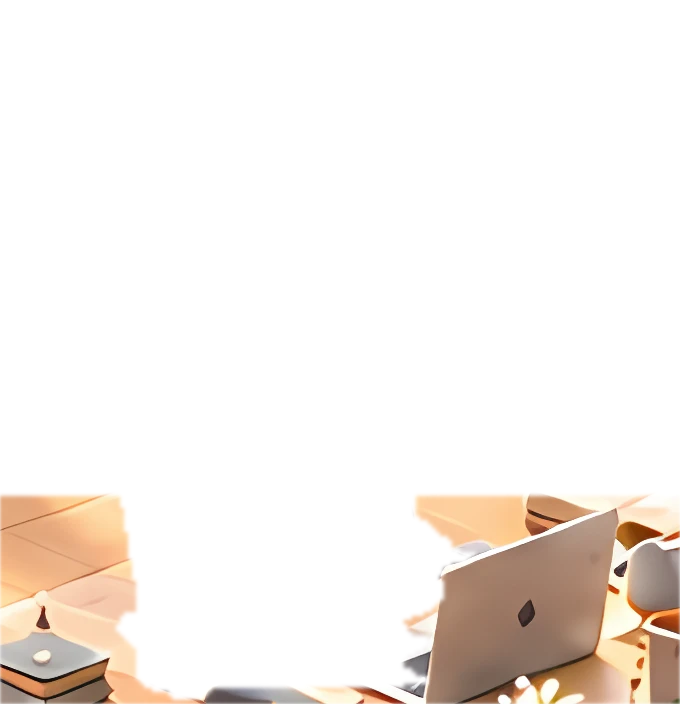
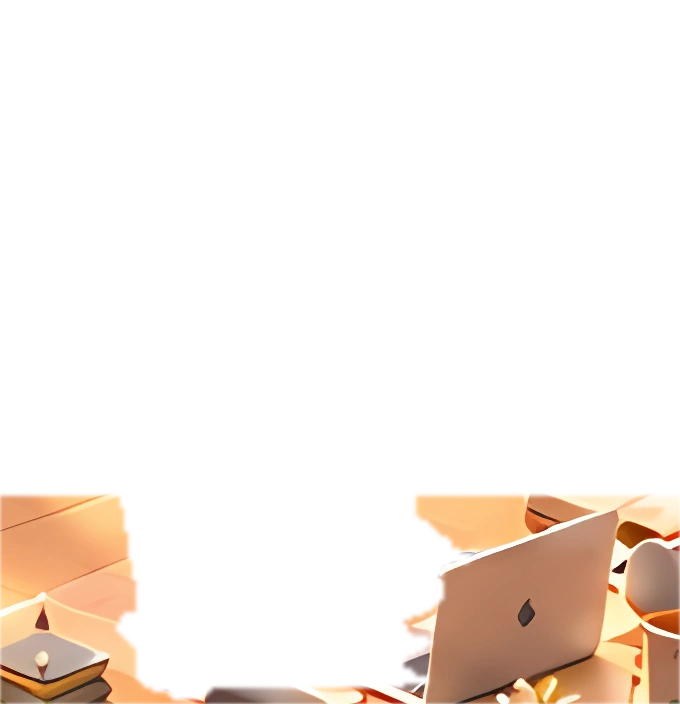
Add Christmas office day and night

diff --git a/office-view.js b/office-view.js
@@ -353,4 +353,42 @@
   };
 })();
 
+// ===== 크리스마스 낮/밤 전환 + 창밖 눈 (2026-11-02) =====
+// 밤: 18:00~06:59 (PC 시각). 배경·가림조각을 *_night.webp로, 캐릭터에 은은한 저녁 조명.
+window.OF_SEASON = window.OF_SEASON || { nightFrom: 18, nightTo: 7, snow: true };
+(function () {
+  if (window.__ofDayNight) return; window.__ofDayNight = true;
+  const css = document.createElement('style');
+  css.textContent = '.of-stage.of-night .lf-pose,.of-stage.of-night .lf-walk,.of-stage.of-night .of-sp,.of-stage.of-night .of-seat{filter:brightness(.92) sepia(.14) saturate(1.06)}'
+    + '.of-snow{position:absolute;inset:0;pointer-events:none;z-index:1;opacity:0;transition:opacity 4s}.of-snow.on{opacity:1}'
+    + '.of-snow i{position:absolute;top:-2%;width:.35%;aspect-ratio:1;border-radius:50%;background:#fff;box-shadow:0 0 4px rgba(255,255,255,.9);animation:ofsnow linear infinite}'
+    + '@keyframes ofsnow{from{transform:translate(0,0)}to{transform:translate(1.5vw,42vh)}}';
+  document.head.appendChild(css);
+  // 창문 영역(1672x941 기준 %): 왼쪽 큰 창, 오른쪽 위 창
+  const CLIP = 'polygon(0% 0%,29.6% 0%,29.6% 22%,6% 41%,0% 44%), polygon(56% 0%,100% 0%,100% 30%,88% 26%,66% 14%,56% 9%)';
+  const night = () => { const h = new Date().getHours(), s = window.OF_SEASON; return s.nightFrom > s.nightTo ? (h >= s.nightFrom || h < s.nightTo) : (h >= s.nightFrom && h < s.nightTo); };
+  const swap = (src, n) => n ? src.replace(/(office_empty|\/ov(?:_table|_monitor)?)(_night)?\.webp/, '$1_night.webp') : src.replace(/_night\.webp/, '.webp');
+  function apply() {
+    const n = night();
+    document.querySelectorAll('.of-stage').forEach(st => {
+      st.classList.toggle('of-night', n);
+      const bg = st.querySelector(':scope > img'); if (bg && /office_empty/.test(bg.src)) { const s2 = swap(bg.src, n); if (s2 !== bg.src) bg.src = s2; }
+      st.querySelectorAll('.lf-ov').forEach(o => { const s2 = swap(o.src, n); if (s2 !== o.src) o.src = s2; });
+      let sn = st.querySelector(':scope > .of-snow');
+      if (!sn && window.OF_SEASON.snow) {
+        sn = document.createElement('div'); sn.className = 'of-snow';
+        const parts = CLIP.split('), ').map((p, i) => p + (i ? '' : ')'));
+        for (const p of parts) { const box = document.createElement('div'); box.style.cssText = 'position:absolute;inset:0;clip-path:' + p;
+          for (let k = 0; k < 45; k++) { const f = document.createElement('i'); f.style.left = (Math.random() * 100) + '%'; f.style.animationDuration = (9 + Math.random() * 9) + 's'; f.style.animationDelay = (-Math.random() * 18) + 's'; f.style.opacity = (.5 + Math.random() * .5); f.style.width = (.2 + Math.random() * .3) + '%'; box.appendChild(f); }
+          sn.appendChild(box); }
+        st.appendChild(sn);
+      }
+      // 밤에만, 약 10분 주기로 4분 정도 눈
+      if (sn) sn.classList.toggle('on', n && (window.OF_SEASON.snowAlways || (Math.floor(Date.now() / 60000) % 10) < 4));
+    });
+  }
+  window.OF_DAYNIGHT = apply;
+  setInterval(apply, 30000);
+  new MutationObserver(() => { clearTimeout(window.__ofDnT); window.__ofDnT = setTimeout(apply, 200); }).observe(document.documentElement, { childList: true, subtree: true });
+})();
 

diff --git a/index.html b/index.html
@@ -107,7 +107,7 @@
 <script>if(new URLSearchParams(location.search).get('full')==='1'){window.__ofFull=true;try{localStorage.setItem('aiusage.tab','office')}catch(e){}}</script>
 <script>window.OF_ANIM=true</script>
 <script src="office-life.js?v=1793614358816"></script>
-<script src="office-view.js?v=1793614537541"></script>
+<script src="office-view.js?v=1793615295343"></script>
 <script>
 const $ = s => document.querySelector(s);
 const KEY = 'aiusage.pw';
@@ -168,7 +168,7 @@ function renderWl(list){
   const m=$('#wlmore'); if(m) m.onclick=()=>{ wlAll=!wlAll; renderWl(list); };
 }
 function render(d){
-  try{ renderOffice($('#office'), d.office, { detail:false, usage:d.services, assetVer:'?v=1793271372707', bg:'office/office_bg.webp?v=1793101729470' }); }catch(e){ $('#office').textContent='운영실 화면 오류: '+e; }
+  try{ renderOffice($('#office'), d.office, { detail:false, usage:d.services, assetVer:'?v=1793615295343', bg:'office/office_bg.webp?v=1793101729470' }); }catch(e){ $('#office').textContent='운영실 화면 오류: '+e; }
   renderCtl(d.control);
   renderWl(d.worklog);
   $('#advice').textContent=d.advice||'';
